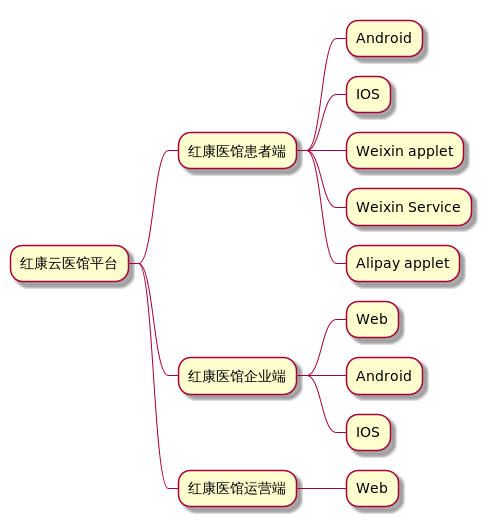
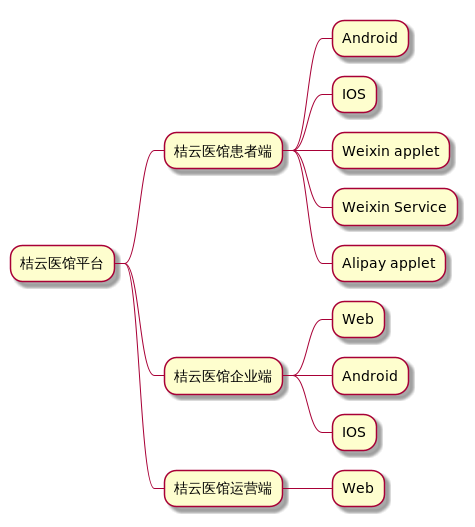
添加医馆、药房、库房关系图

Changed region(s): [[0.0, 0.0304, 0.9726, 0.9715]]

diff --git a/src/main/asciidoc/index.html b/src/main/asciidoc/index.html
@@ -5,8 +5,8 @@
 <meta http-equiv="X-UA-Compatible" content="IE=edge">
 <meta name="viewport" content="width=device-width, initial-scale=1.0">
 <meta name="generator" content="Asciidoctor 2.0.15">
-<meta name="author" content="Liu wenke, Liu huichao">
-<title>红康云医馆系统参考文档</title>
+<meta name="author" content="qwfys, migu">
+<title>桔云医馆系统参考文档</title>
 <link rel="stylesheet" href="https://fonts.googleapis.com/css?family=Open+Sans:300,300italic,400,400italic,600,600italic%7CNoto+Serif:400,400italic,700,700italic%7CDroid+Sans+Mono:400,700">
 <style>
 /* Asciidoctor default stylesheet | MIT License | https://asciidoctor.org */
@@ -437,18 +437,28 @@ body.book #toc,body.book #preamble,body.book h1.sect0,body.book .sect1>h2{page-b
 </style>
 <link rel="stylesheet" href="https://cdnjs.cloudflare.com/ajax/libs/prettify/r298/prettify.min.css">
 </head>
-<body id="Hongkang-cloud-clinic-system-reference" class="book">
+<body id="Ju-cloud-clinic-system-reference" class="book">
 <div id="header">
-<h1>红康云医馆系统参考文档</h1>
+<h1>桔云医馆系统参考文档</h1>
 <div class="details">
-<span id="author" class="author">Liu wenke, Liu huichao</span><br>
+<span id="author" class="author">qwfys, migu</span><br>
 </div>
 <div id="toc" class="toc">
 <div id="toctitle">目录</div>
 <ul class="sectlevel1">
 <li><a href="#_概述">1. 概述</a></li>
 <li><a href="#_概述_2">2. 概述</a></li>
-<li><a href="#_概述_3">3. 概述</a></li>
+<li><a href="#_中医馆业务模型分析">3. 中医馆业务模型分析</a>
+<ul class="sectlevel2">
+<li><a href="#_概念模型分析">3.1. 概念模型分析</a>
+<ul class="sectlevel3">
+<li><a href="#_概述_3">3.1.1. 概述</a></li>
+<li><a href="#_小结">3.1.2. 小结</a></li>
+</ul>
+</li>
+<li><a href="#_物理模型设计">3.2. 物理模型设计</a></li>
+</ul>
+</li>
 <li><a href="#_概述_4">4. 概述</a></li>
 <li><a href="#_概述_5">5. 概述</a></li>
 <li><a href="#_概述_6">6. 概述</a></li>
@@ -462,18 +472,18 @@ body.book #toc,body.book #preamble,body.book h1.sect0,body.book .sect1>h2{page-b
 <div class="sectionbody">
 <div class="imageblock">
 <div class="content">
-<img src="diagram00.png" alt="diagram00" width="489" height="527">
+<img src="diagram00.png" alt="diagram00" width="475" height="527">
 </div>
-<div class="title">Figure 1. 红康云医馆平台总体概览图</div>
+<div class="title">Figure 1. 桔云医馆平台总体概览图</div>
 </div>
 <div class="paragraph">
 <p>kkkkkkkkkk</p>
 </div>
 <div class="imageblock">
 <div class="content">
-<img src="diagram01.png" alt="diagram01" width="468" height="302">
+<img src="diagram01.png" alt="diagram01" width="454" height="302">
 </div>
-<div class="title">Figure 2. 红康云医馆企业用例示图</div>
+<div class="title">Figure 2. 桔云医馆企业用例示图</div>
 </div>
 <div class="paragraph">
 <p>kkkkkkkkkk</p>
@@ -493,9 +503,28 @@ body.book #toc,body.book #preamble,body.book h1.sect0,body.book .sect1>h2{page-b
 </div>
 </div>
 <div class="sect1">
-<h2 id="_概述_3">3. 概述</h2>
+<h2 id="_中医馆业务模型分析">3. 中医馆业务模型分析</h2>
 <div class="sectionbody">
+<div class="sect2">
+<h3 id="_概念模型分析">3.1. 概念模型分析</h3>
+<div class="sect3">
+<h4 id="_概述_3">3.1.1. 概述</h4>
+<div class="imageblock">
+<div class="content">
+<img src="entity000.png" alt="entity000" width="245" height="249">
+</div>
+<div class="title">Figure 4. 桔云医馆企业用例示图</div>
+</div>
+</div>
+<div class="sect3">
+<h4 id="_小结">3.1.2. 小结</h4>
 
+</div>
+</div>
+<div class="sect2">
+<h3 id="_物理模型设计">3.2. 物理模型设计</h3>
+
+</div>
 </div>
 </div>
 <div class="sect1">
@@ -525,7 +554,7 @@ body.book #toc,body.book #preamble,body.book h1.sect0,body.book .sect1>h2{page-b
 </div>
 <div id="footer">
 <div id="footer-text">
-Last updated 2021-06-30 15:46:05 +0800
+Last updated 2021-07-02 15:01:10 +0800
 </div>
 </div>
 <script src="https://cdnjs.cloudflare.com/ajax/libs/prettify/r298/run_prettify.min.js"></script>
